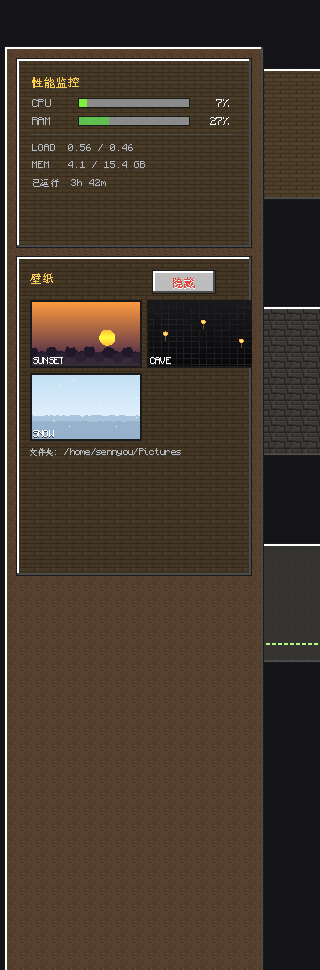
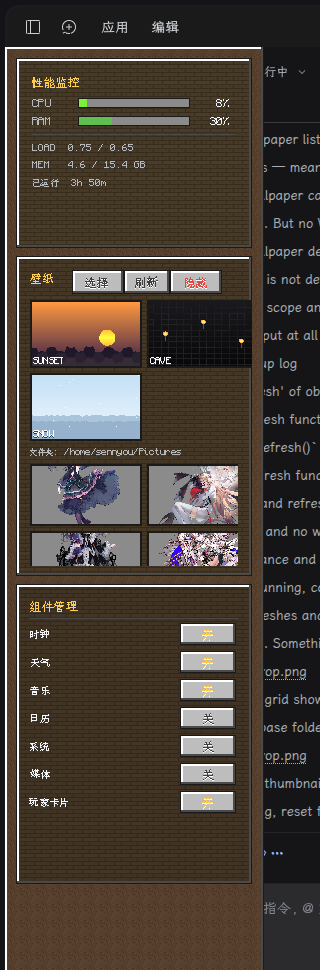
fix: wallpaper folder listing base + refresh queue; docs refresh

diff --git a/modules/widgets/WallpaperCard.qml b/modules/widgets/WallpaperCard.qml
@@ -25,10 +25,23 @@ McPanel {
     readonly property string current: Settings.get("wallpaper.path", "")
 
     property var folderImages: []
+    onFolderChanged: root.refresh()
 
     function pick(path) {
         Settings.set("wallpaper.path", path);
         Settings.set("wallpaper.enabled", true);
+    }
+
+    property bool pendingRefresh: false
+    property string listingFolder: ""
+
+    function refresh() {
+        root.listingFolder = root.folder;
+        if (lister.running) {
+            root.pendingRefresh = true;
+            return;
+        }
+        lister.running = true;
     }
 
     Process {
@@ -37,19 +50,30 @@ McPanel {
         stdout: StdioCollector {
             onStreamFinished: {
                 var out = [];
-                var lines = (this.text || "").split("\n");
+                var lines = (text || "").split("\n");
                 for (var i = 0; i < lines.length; i++) {
                     var n = lines[i].trim();
                     if (!n)
                         continue;
-                    if (!/\\.(png|jpe?g|webp)$/i.test(n))
+                    if (!/\.(png|jpe?g|webp)$/i.test(n))
                         continue;
-                    out.push("file://" + root.folder + "/" + n);
+                    out.push("file://" + root.listingFolder + "/" + n);
                 }
                 root.folderImages = out;
             }
         }
-        Component.onCompleted: running = true
+        onExited: {
+            if (root.pendingRefresh) {
+                root.pendingRefresh = false;
+                root.refresh();
+            }
+        }
+        Component.onCompleted: initialTimer.restart()
+    }
+
+    property Timer initialTimer: Timer {
+        interval: 700
+        onTriggered: root.refresh()
     }
 
     Column {

diff --git a/README.md b/README.md
@@ -106,7 +106,7 @@ per-component toggles in Settings → Side baskets:
 
 | Left (default) | Right (default) |
 |---|---|
-| **Performance monitor** (CPU/RAM bars, load, uptime) · **Wallpaper picker** (three built-in pixel scenes, a folder picker to import any local directory, reload) · **Widget manager** (add/remove desktop widgets) | **Player card** · **Toggle grid** (Wi-Fi / BT / mic / DND) · **Volume + brightness sliders** · **Messages** (history, DND, clear) |
+| **Performance monitor** (CPU/RAM bars, load, uptime) · **Wallpaper picker** (three built-in pixel scenes + native folder picker to import any local directory + reload) · **Widget manager** (add/remove desktop widgets) | **Player card** · **Toggle grid** (Wi-Fi / BT / mic / DND) · **Volume + brightness sliders** · **Messages** (history, DND, clear) |
 
 | Left basket | Right basket |
 |---|---|
